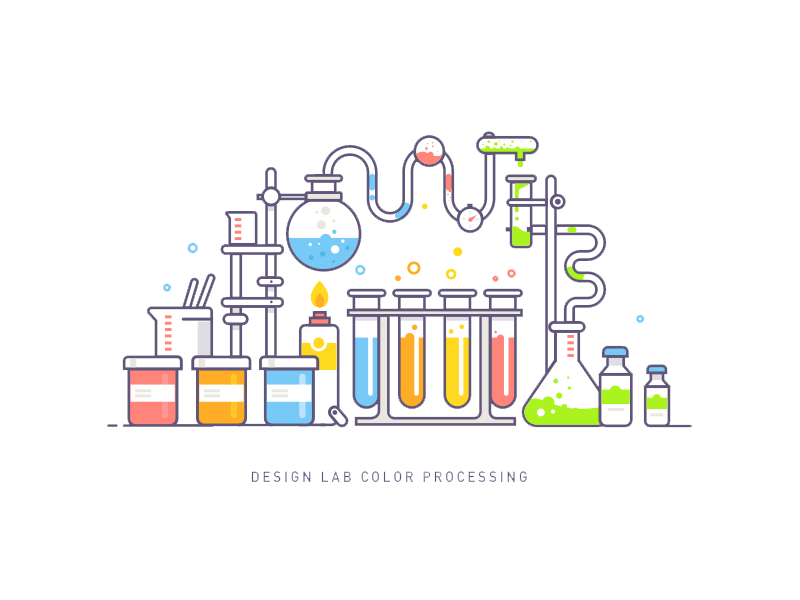
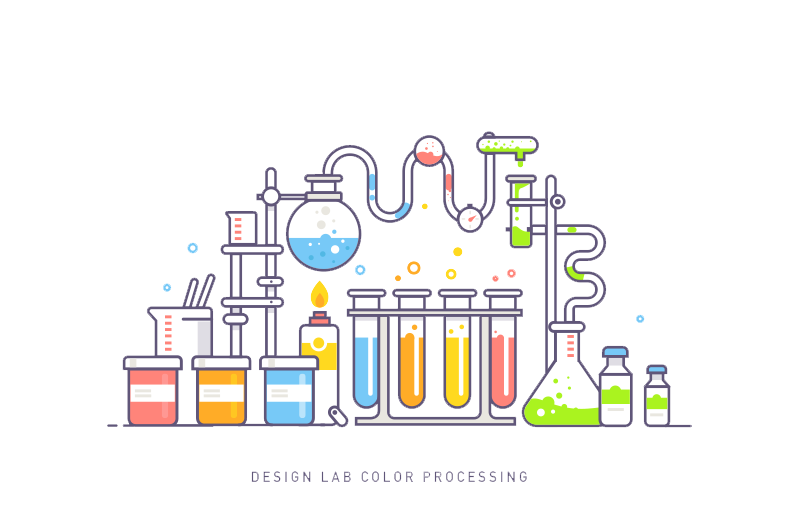
image resize

diff --git a/lib/Screens/Authentication/login.dart b/lib/Screens/Authentication/login.dart
@@ -22,7 +22,7 @@ class _LoginState extends State<Login> {
 
   Widget build(BuildContext context) {
     return Padding(
-       padding: EdgeInsets.fromLTRB(40, 30, 40, 10),
+       padding: EdgeInsets.fromLTRB(40, 0, 40, 0),
        child: Column(
          children: <Widget>[
            Container(
